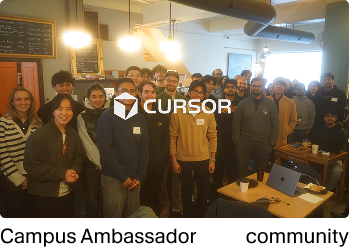
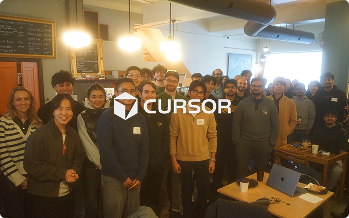
fixed issue with font and styling of text in experience and project section.

diff --git a/justinzwu/components/ExperienceCard.module.css b/justinzwu/components/ExperienceCard.module.css
@@ -5,20 +5,30 @@
 }
 
 .logoArea {
-  min-height: 60px;
+  aspect-ratio: 16 / 10;
   display: flex;
   align-items: center;
+  justify-content: flex-start;
+  border-radius: var(--radius-lg);
+  overflow: hidden;
+  background-color: #f0f0f0;
 }
 
 .logo {
   width: 100%;
+  height: 100%;
+  display: flex;
+  align-items: center;
+  justify-content: flex-start;
+  padding: var(--spacing-md);
 }
 
 .logoImage {
-  max-width: 100%;
-  height: auto;
-  max-height: 60px;
   width: auto;
+  height: auto;
+  max-height: 100%;
+  max-width: 100%;
+  object-fit: contain;
 }
 
 .content {

diff --git a/justinzwu/components/ProjectCard.module.css b/justinzwu/components/ProjectCard.module.css
@@ -55,7 +55,7 @@
 .date {
   font-size: 0.9rem;
   font-weight: 600;
-  color: var(--color-foreground);
+  color: var(--color-muted);
 }
 
 .description {
